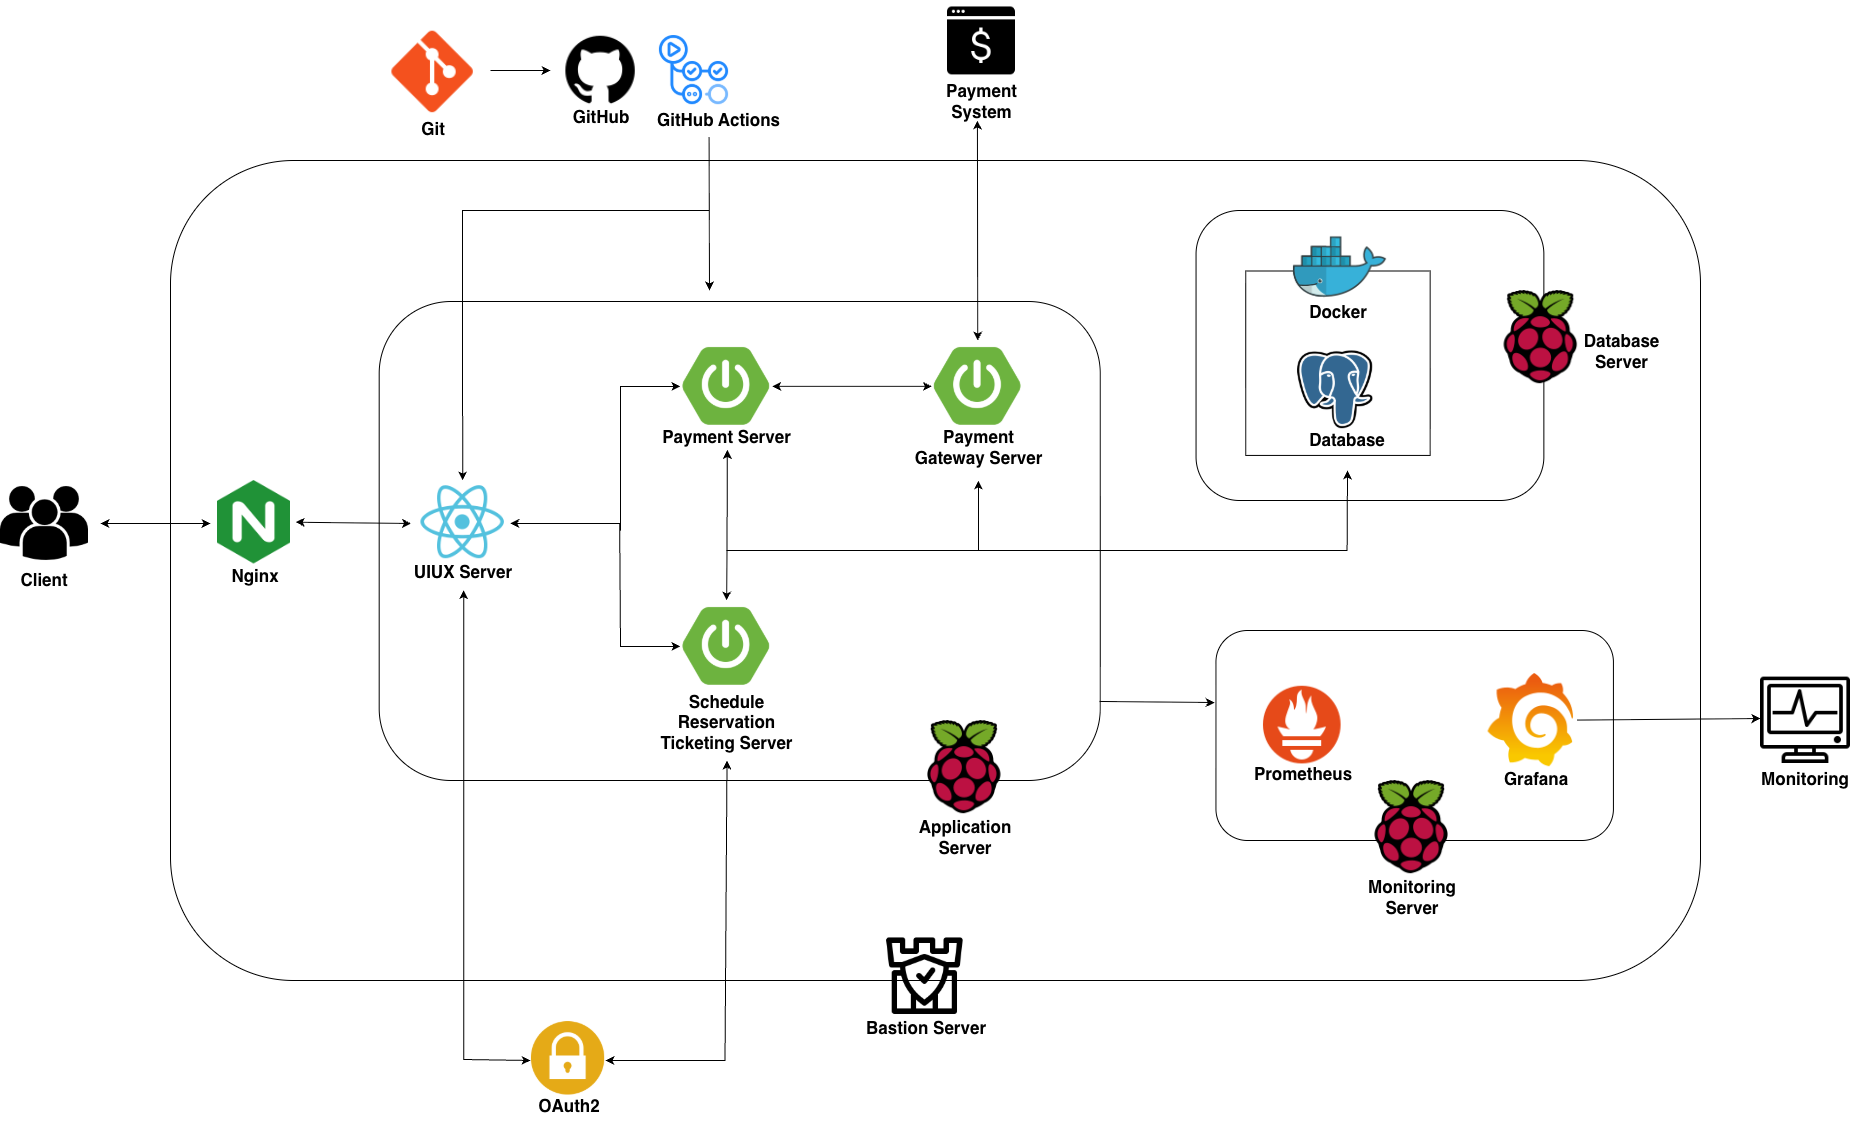
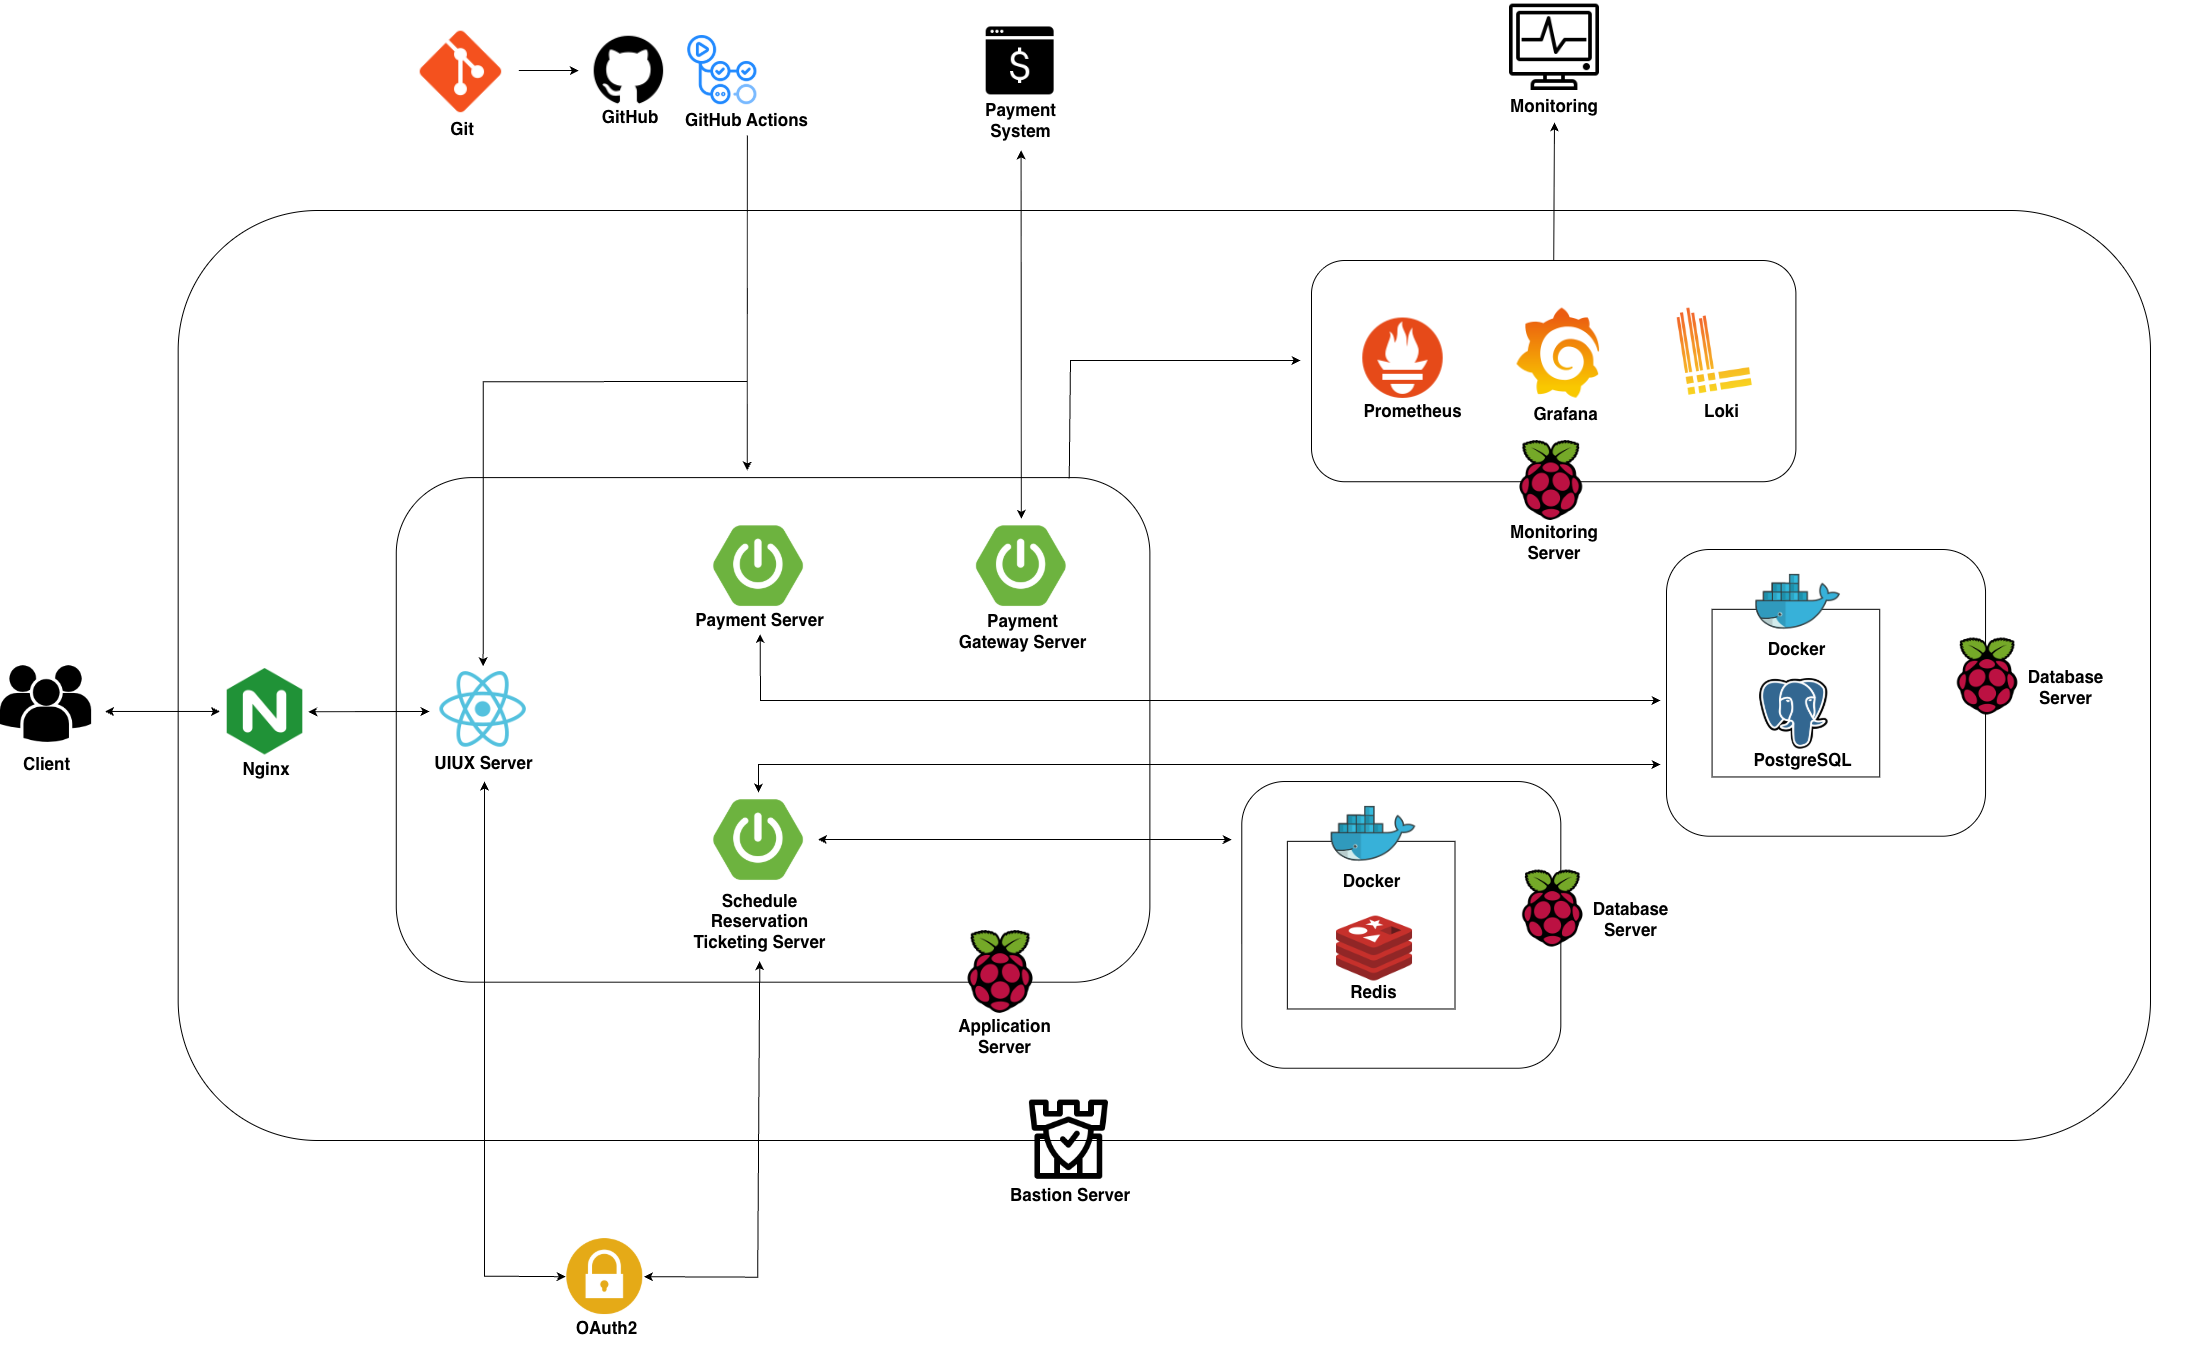
docs(readme): 서비스 아키텍서 사진, 설명 방식 변경 및 기술 스택 업데이트
기존의 상세 서술형 Trouble Shooting 섹션을 제거하고, 핵심 기술 구현 사항을 시스템 아키텍처 하위의 정보로 재구성함.

- Tech Stack: NoSQL(Redis) 항목 추가
- System Architecture: 서비스 분리, CI/CD, DB 전략, 보안/모니터링 4개 섹션으로 요약 정보 추가
- Trouble Shooting: 기존의 긴 문제 해결 사례 섹션 삭제

diff --git a/README.md b/README.md
@@ -15,11 +15,7 @@
 3. [Team Members](#-team-members)
 4. [Tech Stack](#-tech-stack)
 5. [System Architecture & ERD](#-system-architecture--erd)
-6. [Trouble Shooting](#-trouble-shooting-performance--issue)
-    - [1. 좌석 예매 시 동시성 이슈 해결 (Race Condition)](#1-좌석-예매-시-동시성-이슈-해결-race-condition)
-    - [2. 좌석 조회 성능 최적화 및 Full GC 해결 (Caching)](#2-좌석-조회-성능-최적화-및-full-gc-해결-caching)
-    - [3. DB 커넥션 고갈 해결 및 트랜잭션 범위 최소화](#3-db-커넥션-고갈-해결-및-트랜잭션-범위-최소화)
-7. [Collaboration Rules](#-collaboration-rules-ground-rules)
+6. [Collaboration Rules](#-collaboration-rules-ground-rules)
 
 ## 🔗 Links
 - **Service URL:** [https://nextframe.wisoft.dev/](https://nextframe.wisoft.dev/)
@@ -48,15 +44,13 @@
 
 ### Database
 *   **RDBMS:** PostgreSQL
+*   **NoSQL:** Redis
 
 ### Infrastructure & Deployment
 *   **Server:** On-Premise
 *   **Virtualization:** Docker
 *   **CI/CD:** GitHub Actions
 *   **Web Server(Reverse Proxy):** Nginx
-
-### Collaboration Tools
-*   Git, Discord, Notion, Swagger UI
 
 ## 📐 System Architecture & ERD
 > 현재 아키텍처와 DB 설계도는 지속적으로 고도화 중입니다.
@@ -72,6 +66,25 @@
 
 <br>
 
+1. 서비스 독립 분리 및 API 라우팅
+- Payment, Schedule-Reservation-Ticketing, Payment-Gateway 애플리케이션 독립 운영
+- Nginx Reverse Proxy: React 정적 리소스 및 백엔드 API 단일 진입점(Single Entry Point) 구성
+- 통신 프로토콜: 서비스 간 REST API 표준 인터페이스 적용
+
+2. CI/CD
+- 조건부 빌드: changed-files 액션을 통한 변경 모듈 감지 및 선별적 빌드/배포
+- Bastion 터널링: 내부망 환경 보안을 위한 SSH 터널링 기반 아티팩트(.jar) 전송
+
+3. Database
+- 분산 락(Redisson): Redis 기반 락 구현으로 좌석 예매 시 발생하는 Race Condition 방지
+- 데이터 캐싱: 조회 빈도가 높은 공연 정보 Redis 캐싱을 통한 DB 부하 감소 및 응답 속도 개선
+- 데이터 통합 관리: PostgreSQL 통합 DB 구성을 통한 분산 환경 내 데이터 정합성 유지
+
+4. 보안 및 모니터링
+- 네트워크 격리: Bastion Server를 경유한 SSH 접근 제어 (내부망 격리)
+- 인증/인가: OAuth 2.0 기반 소셜 로그인 및 JWT 토큰 검증
+- 가시성 확보: Prometheus/Grafana/Loki 스택을 활용한 메트릭(CPU, Memory) 및 API 처리 현황 실시간 모니터링
+
 ### ERD (Entity Relationship Diagram)
 <details>
 <summary><b>👉 ERD (DB 설계도) 펼쳐보기</b></summary>
@@ -80,82 +93,6 @@
 ![NextFrame ERD](images/DB_diagram.png)
 
 </details>
-
-## 🔥 Trouble Shooting (Performance & Issue)
-
-### 1. 좌석 예매 시 동시성 이슈 해결 (Race Condition)
-
-**🛑 문제 상황 (Situation)**
-선착순 예매 테스트를 진행하던 중, 단일 좌석에 대해 여러 명의 사용자가 동시에 예매를 시도할 경우 중복 예약이 발생하는 현상이 확인되었습니다.
-
-> * **기대 결과:** 1개의 좌석에 1명만 예매 성공
-> * **실제 결과:** 1개의 좌석에 N명이 예매 성공 (데이터 정합성 깨짐)
-
-**🔍 원인 분석 (Cause)**
-애플리케이션 레벨에서 **'좌석 조회(SELECT)'** 와 **'예매 상태 변경(UPDATE)'** 사이에 텀이 존재하여, 트랜잭션이 커밋되기 전에 다른 트랜잭션이 동일한 좌석 정보를 읽어가는 **경쟁 상태(Race Condition)** 가 원인이었습니다.
-
-**💡 해결 과정 (Action)**
-데이터의 무결성을 최우선으로 고려하여 **DB 레벨에서의 강력한 락(Lock)** 과 제약 조건을 활용하는 전략을 선택했습니다.
-
-1.  **Pessimistic Lock (비관적 락) 도입**
-    * 충돌이 빈번하게 일어날 것으로 예상되는 선착순 예매 특성상, 데이터 조회 시점부터 락을 거는 `PESSIMISTIC_WRITE` 모드를 적용했습니다.
-    * 이를 통해 `SELECT ... FOR UPDATE` 쿼리가 실행되어, 트랜잭션이 끝날 때까지 다른 트랜잭션의 접근을 차단했습니다.
-2.  **UNIQUE 제약 조건 추가 (Defense in Depth)**
-    * 락을 적용했더라도 만약의 사태를 대비해 DB 테이블 컬럼에 `UNIQUE` 제약 조건을 추가하여 물리적으로 중복 데이터가 `INSERT` 되는 것을 원천 차단했습니다.
-
-**✅ 결과 (Result)**
-nGrinder를 이용한 동시성 테스트 결과, 동일 좌석에 대한 다중 요청 시 단 1건의 트랜잭션만 성공하고 나머지는 롤백됨을 확인했습니다.
-**데이터 정합성 100%를 보장**하는 안정적인 예매 시스템을 구축했습니다.
-
-### 2. 좌석 조회 성능 최적화 및 Full GC 해결 (Caching)
-
-**🛑 문제 상황 (Situation)**
-좌석 상태 조회 기능에 대한 부하 테스트(Load Test)를 진행하던 중, 주기적으로 **TPS가 급락하고 응답 시간이 비정상적으로 급증**하는 불안정한 현상이 관측되었습니다.
-
-**🔍 원인 분석 (Cause)**
-서버 모니터링 및 **GC(Garbage Collection) 로그를 분석**한 결과, 요청 처리 과정에서 불필요한 객체가 과도하게 생성되어 **빈번한 Full GC**가 발생했고, 이로 인한 'Stop-the-world' 현상이 성능 저하의 주원인임을 확인했습니다.
-
-**💡 해결 과정 (Action)**
-DB I/O 부하를 줄이고 객체 생성 자체를 최소화하기 위해 **캐싱(Caching) 전략**을 도입했습니다.
-
-1.  **캐시 정책(Policy) 수립**
-    * 메모리 효율성을 고려하여 적절한 만료 시간(TTL)과 최대 저장 크기(Maximum Size)를 설정했습니다.
-2.  **Spring Cache 적용 (@Cacheable)**
-    * 빈번하게 호출되는 좌석 조회 메서드에 `@Cacheable`을 적용하여, 동일한 요청에 대해서는 DB 접근 없이 메모리에서 즉시 응답하도록 개선했습니다.
-3.  **데이터 정합성 보장 (@CacheEvict)**
-    * 좌석 예매로 인해 상태가 변경되는 시점에 `@CacheEvict`를 실행하여 기존 캐시를 즉시 제거함으로써, 사용자가 항상 최신 좌석 정보를 볼 수 있도록 정합성을 보장했습니다.
-
-**✅ 결과 (Result)**
-캐싱 적용 후 재테스트 결과, **최대 TPS가 약 167% 향상**되었으며 응답 시간이 대폭 감소했습니다. 또한, Full GC 발생 빈도가 현저히 줄어들어 안정적인 서비스 운영이 가능해졌습니다.
-
-### 3. DB 커넥션 고갈 해결 및 트랜잭션 범위 최소화
-
-**🛑 문제 상황 (Situation)**
-좌석 예매 부하 테스트 진행 중, 다수의 트랜잭션이 **10초 이상 소요되는 '느린 응답(Outlier)'** 현상이 관찰되었으며, 시스템 전체의 처리량(TPS)이 급격히 저하되었습니다.
-
-**🔍 원인 분석 (Cause)**
-**DB 커넥션 풀(HikariCP) 고갈**이 핵심 원인이었습니다.
-* **분석 결과:** 실제 SQL 처리 시간은 약 1.13초였으나, 커넥션을 얻기 위한 **대기 시간(Connection Wait)이 무려 9.7초**에 달했습니다.
-* **병목 지점:** 1.13초라는 긴 트랜잭션 시간(DB 락 포함) 동안 스레드가 커넥션을 점유하고 있어, 후속 요청들이 커넥션을 획득하지 못하고 대기 상태에 빠지는 악순환이 발생했습니다.
-
-**💡 해결 과정 (Action)**
-**"스레드가 DB 커넥션을 점유하는 시간을 줄인다"** 는 목표로 최적화를 수행했습니다.
-
-1.  **트랜잭션 범위(@Transactional) 최소화**
-    * 단순 읽기/검증 로직을 트랜잭션 범위 밖으로 분리했습니다.
-    * 실제 DB 쓰기 작업만 수행하는 로직을 별도로 분리하여 트랜잭션 유지 시간을 단축했습니다.
-2.  **락 전략 변경 (Pessimistic → Optimistic)**
-    * 기존 비관적 락(Pessimistic Lock)의 대기 시간(Lock Wait) 문제를 해결하기 위해 **낙관적 락(Optimistic Lock)** 으로 전환했습니다.
-    * `@Version`을 적용하여 충돌 감지 메커니즘을 도입하고, `OptimisticLockingFailureException` 예외 처리를 통해 동시성 문제를 제어했습니다.
-3.  **인프라 튜닝**
-    * DB 커넥션 풀(HikariCP) 사이즈를 30으로 조정하여 처리 용량을 최적화했습니다.
-
-**✅ 결과 (Result) 및 향후 계획**
-리팩토링 결과, **개별 DB 트랜잭션 점유 시간을 획기적으로 단축**했습니다.
-하지만 동기(Sync) 방식의 구조적 한계로 인한 성능 병목이 여전히 존재함을 확인하였으며, 이를 근본적으로 해결하기 위해 다음과 같은 계획을 세웠습니다.
-
-* **비동기 아키텍처 전환:** 대기열 큐(Queue) 및 비동기(Async) 처리를 도입하여 사용자 요청과 DB 처리를 분리
-* **인프라 확장:** 늘어나는 트래픽을 감당하기 위한 **DB 서버 증설(Scale-out) 및 이중화** 구성
 
 ## 🤝 Collaboration Rules (Ground Rules)
 NextFrame 팀은 명확한 규칙을 통해 코드 품질을 유지하고 협업 효율을 높입니다.
